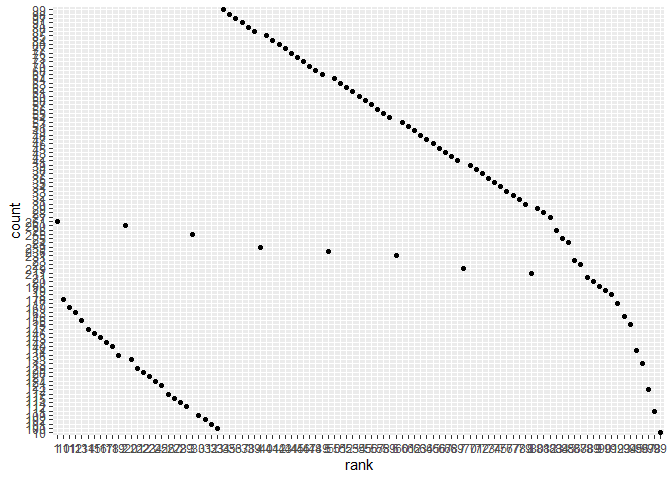
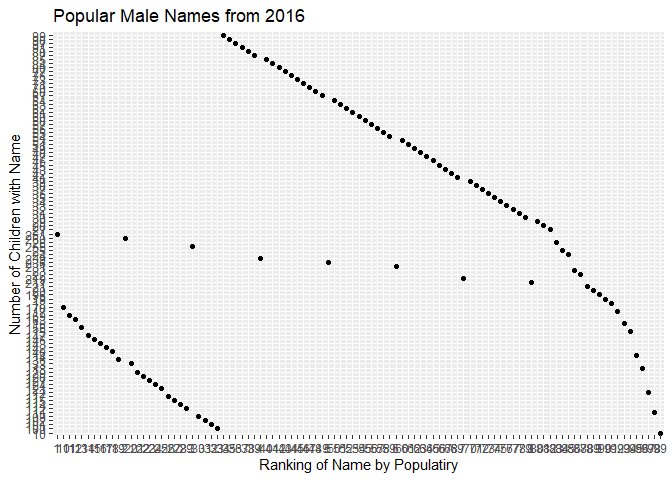
Final Edits

diff --git a/p8105_hw2_cs3779.md b/p8105_hw2_cs3779.md
@@ -263,7 +263,12 @@ male_2016_plot = pop_baby_names %>%
 
 male_2016_plot %>% 
   ggplot(aes(x=rank, y=count)) +
-    geom_point()
+    geom_point() +
+  labs(
+    title = "Popular Male Names from 2016",
+    x = "Ranking of Name by Populatiry",
+    y = "Number of Children with Name"
+  )
 ```
 
 ![](p8105_hw2_cs3779_files/figure-gfm/unnamed-chunk-8-1.png)<!-- -->
